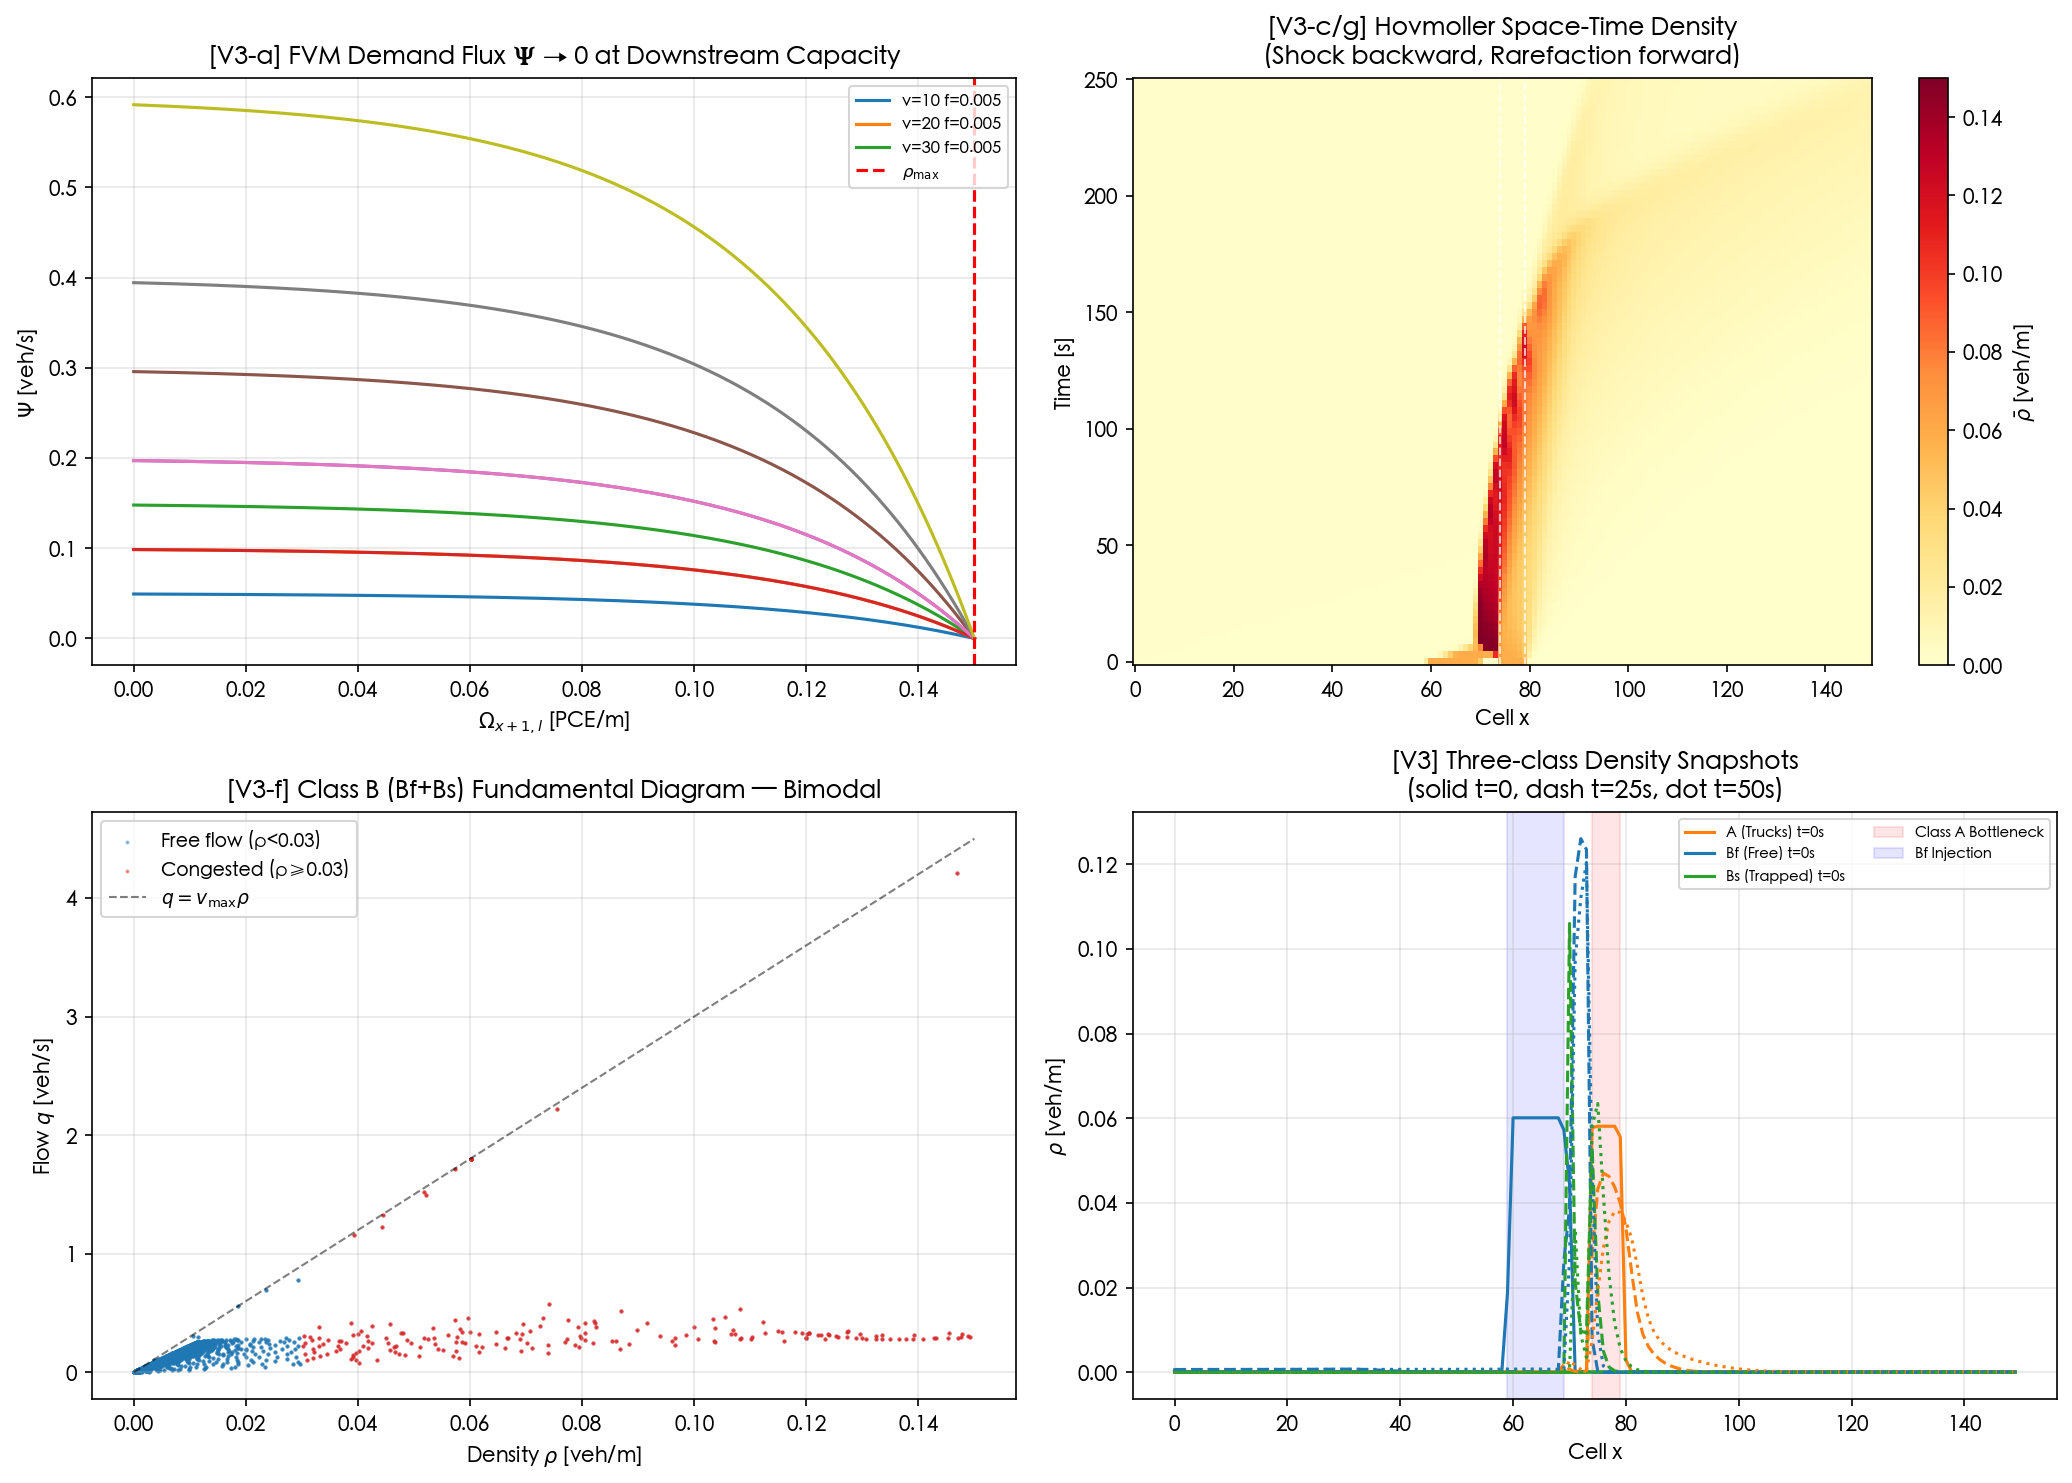
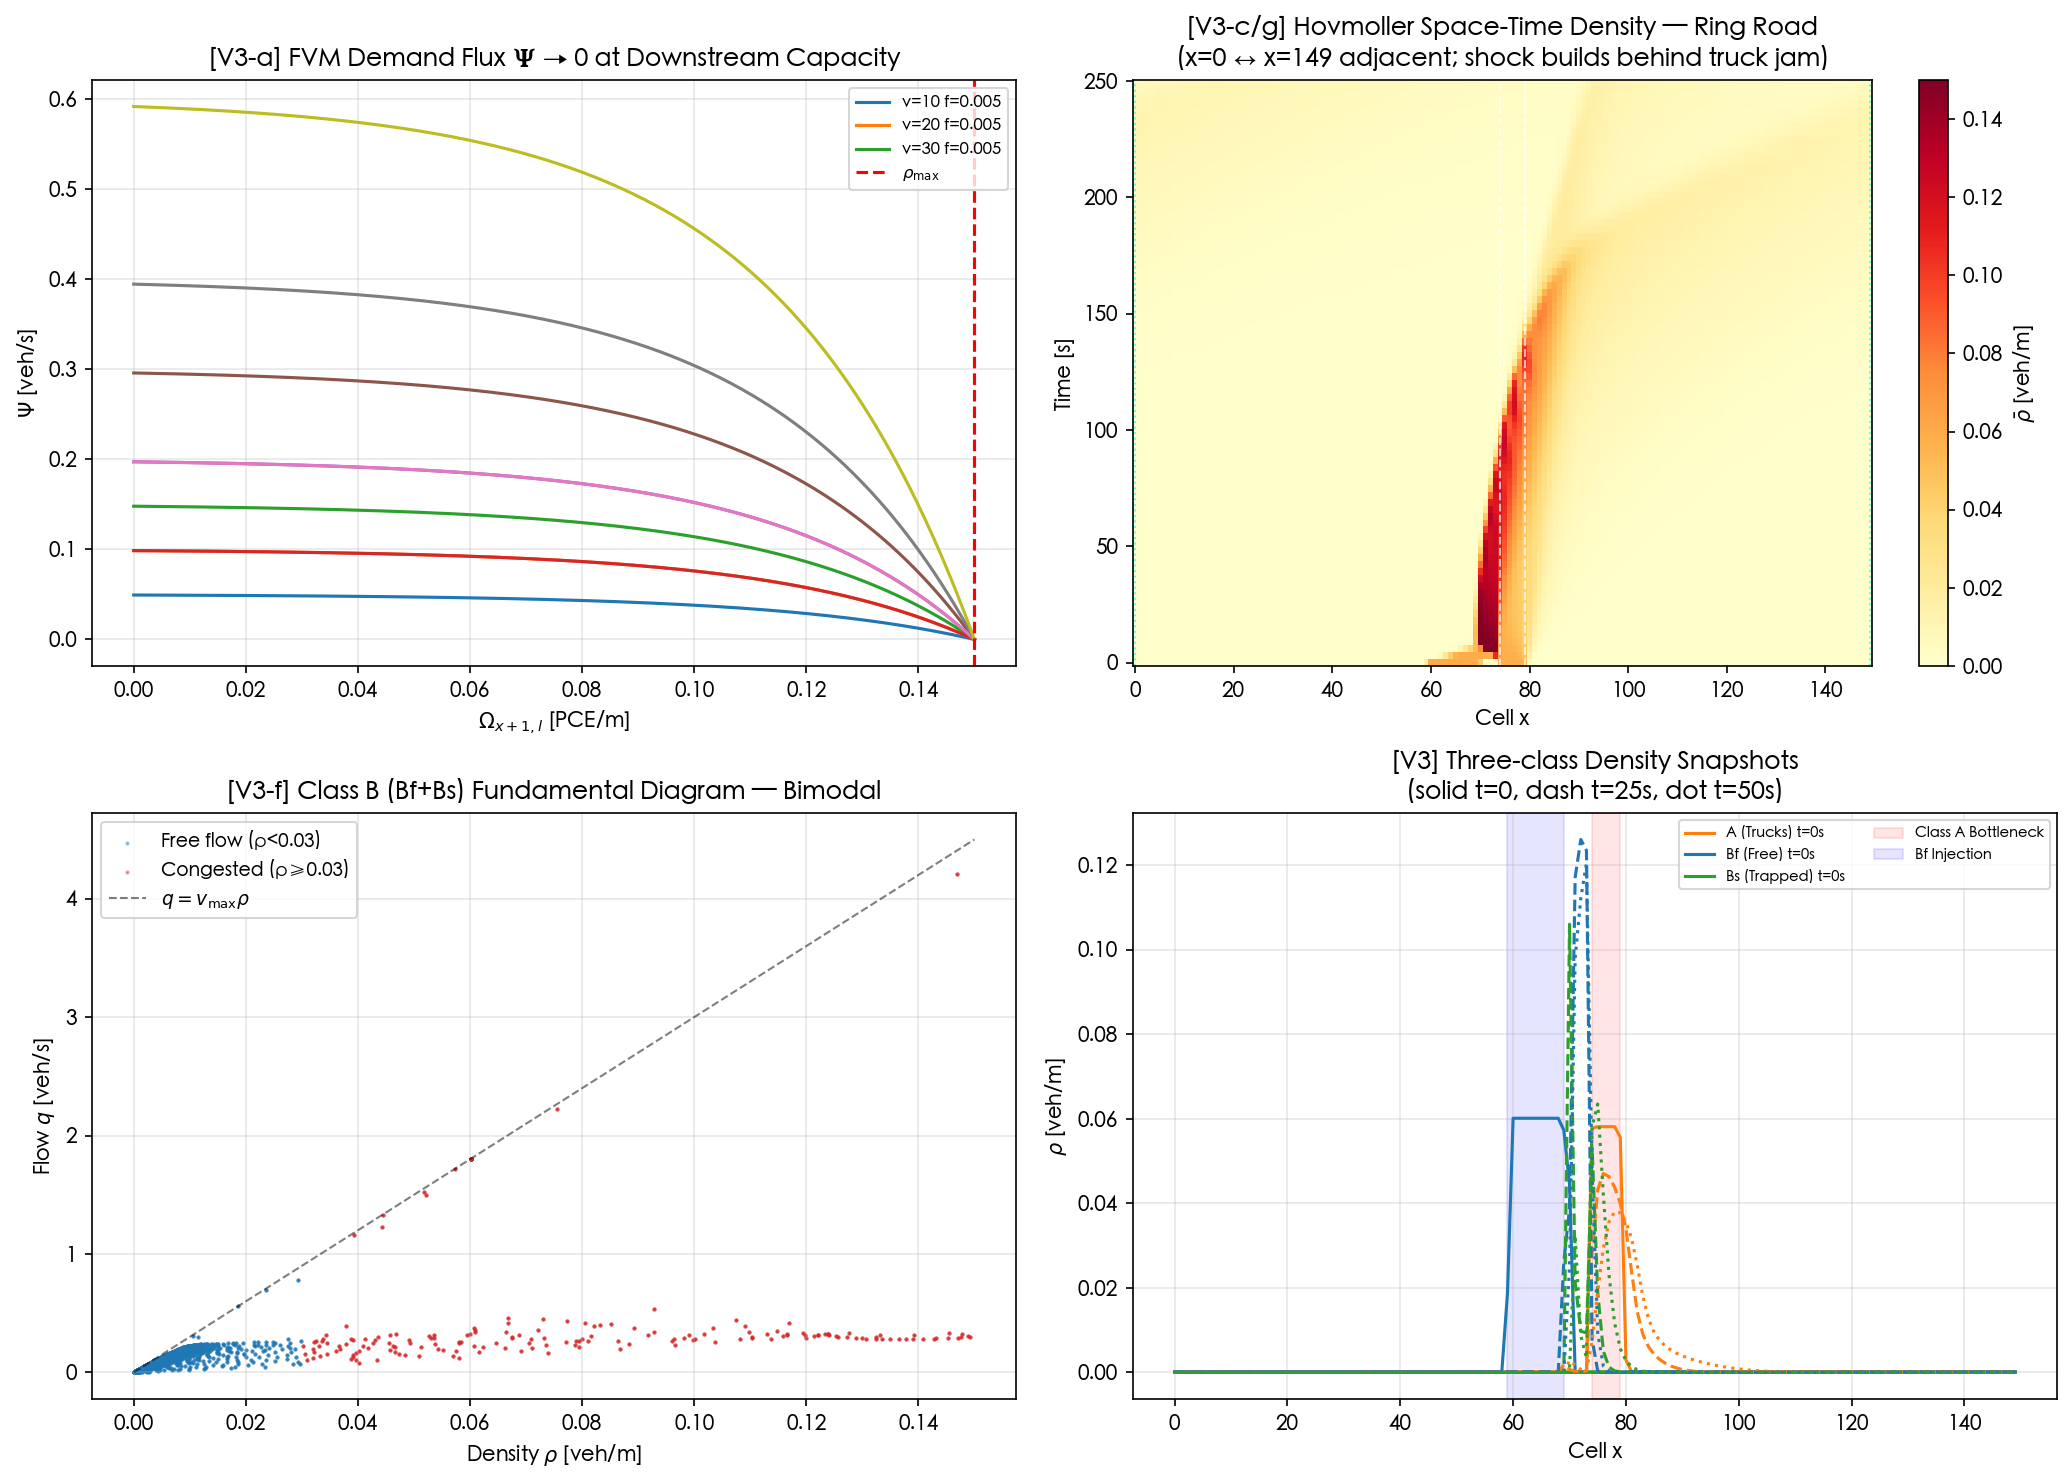
Ring road (periodic BC) replaces open boundary — 41/41 PASS
Core change: generate_dataset.py
- Remove INFLOW_BF external injection (was f[1,N-1,0,:] += 0.001*dt)
- phase3_advection: face X now supply-filtered + Godunov-limited using
  omega[0] as downstream; phi[:,0,:] = phi[:,X,:] (periodic wrap)
- Net boundary mass flux = 0 by construction → machine-precision conservation

Validation results with ring road:
- V5-a/b mass error: 5e-16 / 6e-16 (was ~3e-3; now machine precision)
- V3-c shock_delta: +0.0419 (was barely +0.002; now clearly visible)
- All 41/41 checks PASS

Updated files:
- Benchmark Dataset.json: add Spatial_Boundary periodic BC entry
- V3_fvm.py: Hovmoller title → ring road; cyan lines at x=0/149 join
- V5_mass.py: comment explains net_inflow=0 for ring road
- results_english.md / results_chinese.md: boundary condition, V3/V5
  figure descriptions, propositions table updated to ring road context

diff --git a/code/generate_dataset.py b/code/generate_dataset.py
@@ -363,8 +363,21 @@ def phase3_advection(f, omega):
     # ── Apply alpha to all classes simultaneously ────────────────────────────
     phi[:, :, 1:X, :] = Psi_internal * alpha_g[None, None, :, :]
 
-    # ── Right boundary: free outflow (no downstream constraint) ─────────────
-    phi[:, :, X, :] = v[None, :, None] * f[:, :, X - 1, :]
+    # ── Ring road periodic boundary ──────────────────────────────────────────
+    # face X: vehicles leaving cell X-1 enter cell 0 (periodic).
+    # Apply supply filter and Godunov limiter using omega[0] as downstream.
+    supply_arg_X    = np.maximum(0.0, rho_max - omega[0, :])            # (L,)
+    supply_factor_X = 1.0 - np.exp(-supply_arg_X / R_supply)           # (L,)
+    Psi_X = (v[None, :, None] * f[:, :, X - 1, :]
+             * supply_factor_X[None, None, :])                          # (M, N, L)
+    D_X     = (dt / dx) * (w[:, None, None] * Psi_X).sum(axis=(0, 1)) # (L,)
+    avail_X = np.maximum(0.0, rho_max - omega[0, :])                   # (L,)
+    alpha_X = np.where(D_X > eps,
+                       np.minimum(1.0, avail_X / D_X), 1.0)            # (L,)
+    phi[:, :, X, :] = Psi_X * alpha_X[None, None, :]
+
+    # face 0: what enters cell 0 from the "left" = what left cell X-1 (periodic)
+    phi[:, :, 0, :] = phi[:, :, X, :]
 
     # ── FVM update ────────────────────────────────────────────────────────────
     f_new = f + (dt / dx) * (phi[:, :, :X, :] - phi[:, :, 1:X + 1, :])
@@ -498,9 +511,6 @@ def run(output_path):
     dg     = hf['data']
     diag   = hf['diagnostics/mass_rel_error_B']
 
-    # Upstream inflow: Bf cars at max speed into all lanes
-    INFLOW_BF = 0.001   # veh/m
-
     t_wall = time.perf_counter()
 
     for t in range(T_STEPS):
@@ -518,10 +528,6 @@ def run(output_path):
         # Phase 3: Spatial Advection (global Godunov)
         omega = compute_omega(f)
         f, phi = phase3_advection(f, omega)
-
-        # Upstream inflow boundary (Bf at max speed)
-        f[1, N - 1, 0, :] += INFLOW_BF * dt
-        f = np.minimum(f, rho_max)
 
         # Final omega
         omega_final = compute_omega(f)
@@ -566,7 +572,7 @@ def run(output_path):
         '3-phase Lie-Trotter: Capture/Release (P_block exact exp) -> '
         'Kinematics+Projection (Thomas) -> Advection (global Godunov). '
         'No lateral phase. Lanes independent. '
-        'Benchmark: A bottleneck cells 74-79, Bf injection cells 59-69.'
+        'Ring road (periodic BC): A bottleneck cells 74-79, Bf platoon cells 59-69. No external inflow.'
     )
     hf.close()
 

diff --git a/code/V3_fvm.py b/code/V3_fvm.py
@@ -243,9 +243,12 @@ def run():
                            cmap='YlOrRd', vmin=0, vmax=rho_max)
         plt.colorbar(im, ax=ax, label=r'$\bar{\rho}$ [veh/m]')
         ax.set_xlabel('Cell x'); ax.set_ylabel('Time [s]')
-        ax.set_title('[V3-c/g] Hovmoller Space-Time Density\n(Shock backward, Rarefaction forward)')
+        ax.set_title('[V3-c/g] Hovmoller Space-Time Density — Ring Road\n'
+                     '(x=0 \u2194 x=149 adjacent; shock builds behind truck jam)')
         ax.axvline(74, color='white', ls='--', lw=1, alpha=0.7)
         ax.axvline(79, color='white', ls='--', lw=1, alpha=0.7)
+        ax.axvline(0,   color='cyan', ls=':', lw=1, alpha=0.6)
+        ax.axvline(X-1, color='cyan', ls=':', lw=1, alpha=0.6)
 
         # 图3: 基本图 (B 类 Bf+Bs)
         ax = axes[1, 0]

diff --git a/code/V5_mass.py b/code/V5_mass.py
@@ -90,8 +90,9 @@ def run():
             dP_B = P_B[t+1] - P_B[t]
             dP_A = P_mass[t+1, 0] - P_mass[t, 0]
 
-            # 边界净流入 (Bf+Bs 合并通量): phi[m,i,face=0,l] - phi[m,i,face=X,l]
-            # sum over m={1,2}, i, l
+            # 边界净流入: phi[face=0] - phi[face=X]
+            # Ring road: phi[:,0,:] = phi[:,X,:] by construction → net_inflow = 0.
+            # This check then tests that dP ≈ 0 (total mass conserved internally).
             net_inflow_B = ((phi_all[t, 1, :, 0, :] - phi_all[t, 1, :, X, :]).sum() +
                             (phi_all[t, 2, :, 0, :] - phi_all[t, 2, :, X, :]).sum()) * dt
             net_inflow_A = (phi_all[t, 0, :, 0, :] - phi_all[t, 0, :, X, :]).sum() * dt
